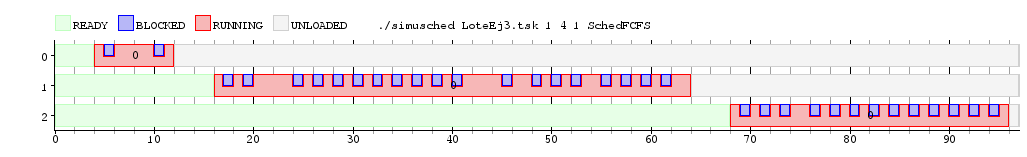
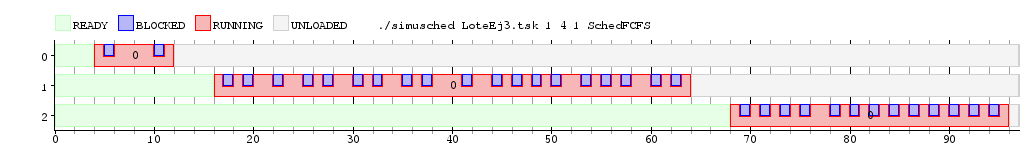
Ejercicio 3.

diff --git a/simusched/tasks.cpp b/simusched/tasks.cpp
@@ -44,35 +44,26 @@ void TaskBatch(int pid, vector<int> params) { // params: total_cpu, cant_bloqueo
   int cant_bloqueos = params[1]; 
 
   std::vector<int> tiempos_de_bloqueo;
-  for(int i = 0; i<total_cpu; i++){
-    tiempos_de_bloqueo.push_back(i); // armo el vector de tiempos de bloqueo
-  }                                 // = {0, 1, 2, 3, 4, ..., total_cpu-1}
+  // armo el vector de tiempos de bloqueo
+  for(int i = 0; i < cant_bloqueos; i++) tiempos_de_bloqueo.push_back(true); 
+  for(int i = 0; i < total_cpu - cant_bloqueos; i++) tiempos_de_bloqueo.push_back(false);
 
   // Uso fisher yates para mezclarlo
   // https://en.wikipedia.org/wiki/Fisher%E2%80%93Yates_shuffle
   int n = tiempos_de_bloqueo.size();
-  for(int i = n-1; i>=1; i--){
-    int j = rand()%(n-i) + i; //j al azar,  i<=j<n
-    
+  for(int i = n - 1; i >= 1; i--)
+  {
+    int j = rand() % (n-i) + i; //j al azar,  i<=j<n
+    //swap
     int temp = tiempos_de_bloqueo[i];
     tiempos_de_bloqueo[i] = tiempos_de_bloqueo[j];
     tiempos_de_bloqueo[j] = temp;
   }
 
 
-  for(int i = 0; i<total_cpu; i++){
-    // me fijo si toca bloquear o toca usar cpu
-    // si esta en las primeras cant_bloqueos posiciones
-    // de tiempos_de_bloqueo toca bloquear
-    bool hay_que_bloquear = false;
-    for(int j = 0; j<cant_bloqueos; j++){
-      if(tiempos_de_bloqueo[j] == i){
-        hay_que_bloquear = true;
-        break;
-      }
-    }
-
-    if(hay_que_bloquear) uso_IO(pid, 1);
+  for(int i = 0; i<total_cpu; i++)
+  {
+    if (tiempos_de_bloqueo[i]) uso_IO(pid, 1);
     else uso_CPU(pid, 1);
   }
 }

diff --git a/simusched/informe/ej3.tex b/simusched/informe/ej3.tex
@@ -1,0 +1,11 @@
+\FloatBarrier
+\par Nuestra implementaci\'on de Task Batch consiste en crear un vector de bools de tama\~no $total\_cpu$ (el primer par\'ametro de la tarea), que se llena con $cant\_bloqueos$ valores en $true$ y el resto en $false$.
+Luego, utilizamos el algoritmo de Fisher-Yates para hacer un shuffle del vector.
+Finalmente, se lo recorre, y por cada posici\'on, si el valor es $true$ se hace una interrupci\'on de IO, y si es $false$ se hace uso de la CPU.
+\par En la figura \ref{fig:figuraEj3} se puede ver un lote de tareas con 3 TaskBatch, con par\'ametros 5 y 2; 28 y 19; 14 y 13.
+\begin{figure}[h]
+\caption{Ejemplo de un lote de tareas con Task Batch}
+\label{fig:figuraEj3}
+\includegraphics[width=0.9\columnwidth]{imgs/imgEj3.png}
+\end{figure}
+\FloatBarrier
